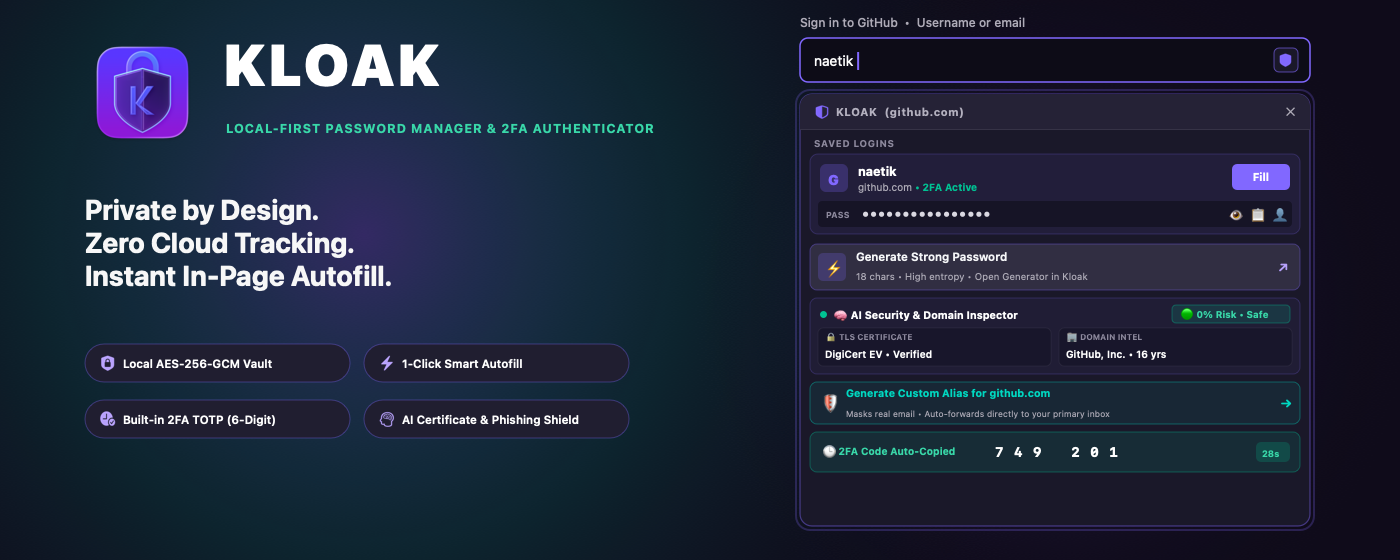
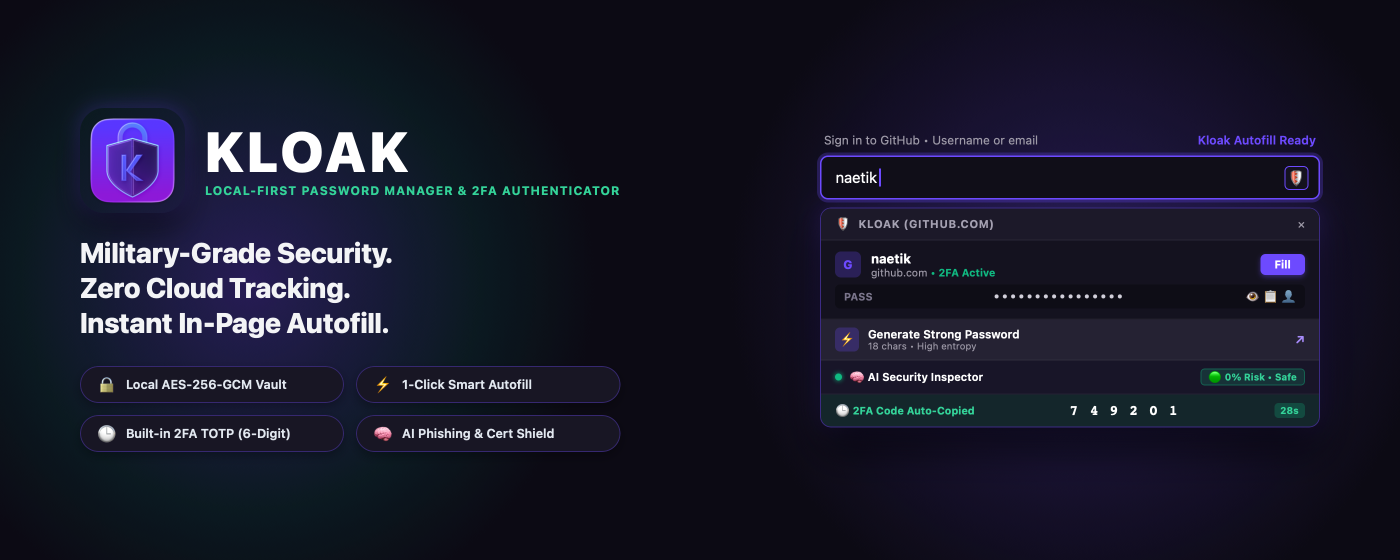
feat(store): add 5 Proton Pass inspired store screenshots and WebKit rendered marquee promo tile

diff --git a/packages/browser-extension/preview_autofill.html b/packages/browser-extension/preview_autofill.html
@@ -1,0 +1,347 @@
+<!DOCTYPE html>
+<html lang="en">
+<head>
+  <meta charset="UTF-8">
+  <title>Kloak Autofill Preview</title>
+  <style>
+    body {
+      background: #0d0c14;
+      color: #fff;
+      font-family: -apple-system, BlinkMacSystemFont, "Segoe UI", Roboto, Helvetica, Arial, sans-serif;
+      padding: 60px;
+      display: flex;
+      flex-direction: column;
+      align-items: center;
+    }
+    .page-context {
+      width: 440px;
+      margin-bottom: 8px;
+    }
+    .field-label {
+      font-size: 13px;
+      color: #9E9AA8;
+      margin-bottom: 6px;
+      display: flex;
+      justify-content: space-between;
+    }
+    .input-wrapper {
+      position: relative;
+      width: 100%;
+    }
+    .mock-input {
+      width: 100%;
+      box-sizing: border-box;
+      height: 42px;
+      background: #111017;
+      border: 1.5px solid #6D4AFF;
+      border-radius: 8px;
+      padding: 0 40px 0 14px;
+      color: #fff;
+      font-size: 14px;
+      outline: none;
+      box-shadow: 0 0 0 3px rgba(109, 74, 255, 0.25);
+    }
+    .kloak-field-badge {
+      position: absolute;
+      right: 10px;
+      top: 10px;
+      width: 22px;
+      height: 22px;
+      border-radius: 5px;
+      background: #14121F;
+      border: 1px solid rgba(109, 74, 255, 0.5);
+      display: flex;
+      align-items: center;
+      justify-content: center;
+      box-shadow: 0 2px 6px rgba(0,0,0,0.4);
+    }
+    .kloak-field-badge svg {
+      width: 13px;
+      height: 13px;
+      fill: #6D4AFF;
+    }
+
+    /* ── Content script .kloak-popup styles ── */
+    .kloak-popup {
+      width: 440px;
+      background: #14121F;
+      border: 1px solid rgba(109, 74, 255, 0.4);
+      border-radius: 10px;
+      box-shadow: 0 16px 40px rgba(0,0,0,0.65), 0 0 20px rgba(109, 74, 255, 0.18);
+      color: #FFFFFF;
+      font-size: 12px;
+      overflow: hidden;
+    }
+    .kloak-header {
+      display: flex;
+      align-items: center;
+      justify-content: space-between;
+      padding: 9px 12px;
+      background: #1C1929;
+      border-bottom: 1px solid rgba(255,255,255,0.06);
+    }
+    .kloak-brand {
+      display: flex;
+      align-items: center;
+      gap: 7px;
+      font-size: 11px;
+      font-weight: 700;
+      color: #A5A1B2;
+      text-transform: uppercase;
+      letter-spacing: 0.5px;
+    }
+    .kloak-brand svg {
+      width: 14px;
+      height: 14px;
+      fill: #6D4AFF;
+    }
+    .kloak-close-btn {
+      color: #9E9AA8;
+      font-size: 12px;
+      cursor: pointer;
+    }
+    .kloak-section-title {
+      font-size: 10px;
+      font-weight: 700;
+      color: #7A758B;
+      text-transform: uppercase;
+      letter-spacing: 0.6px;
+      padding: 10px 14px 4px 14px;
+    }
+    .kloak-card {
+      padding: 10px 14px;
+      border-bottom: 1px solid rgba(255,255,255,0.05);
+      display: flex;
+      flex-direction: column;
+      gap: 8px;
+    }
+    .kloak-card-top {
+      display: flex;
+      align-items: center;
+      gap: 10px;
+    }
+    .kloak-item-avatar {
+      width: 28px;
+      height: 28px;
+      border-radius: 6px;
+      background: rgba(109, 74, 255, 0.2);
+      display: flex;
+      align-items: center;
+      justify-content: center;
+      font-size: 13px;
+      font-weight: 700;
+      color: #6D4AFF;
+    }
+    .kloak-item-info { flex: 1; }
+    .kloak-item-username { font-size: 13px; font-weight: 600; color: #fff; }
+    .kloak-item-title { font-size: 11px; color: #9E9AA8; margin-top: 1px; }
+    .kloak-btn-fill {
+      background: #6D4AFF;
+      color: #fff;
+      border: none;
+      border-radius: 6px;
+      padding: 5px 14px;
+      font-size: 11px;
+      font-weight: 600;
+      cursor: pointer;
+      box-shadow: 0 2px 6px rgba(109, 74, 255, 0.4);
+    }
+    .kloak-pwd-row {
+      display: flex;
+      align-items: center;
+      justify-content: space-between;
+      background: rgba(0,0,0,0.3);
+      border-radius: 6px;
+      padding: 5px 10px;
+    }
+    .kloak-pwd-label { color: #7A758B; font-size: 9px; font-weight: 700; }
+    .kloak-pwd-value { font-family: monospace; color: #D1CFDA; font-size: 12px; letter-spacing: 1px; }
+    .kloak-pwd-actions { display: flex; gap: 6px; font-size: 12px; }
+
+    .kloak-gen-btn-box {
+      padding: 8px 14px;
+      border-bottom: 1px solid rgba(255,255,255,0.05);
+      background: rgba(109, 74, 255, 0.04);
+    }
+    .kloak-btn-generator {
+      width: 100%;
+      display: flex;
+      align-items: center;
+      justify-content: space-between;
+      background: #252233;
+      border: 1px solid rgba(109, 74, 255, 0.35);
+      border-radius: 7px;
+      padding: 8px 10px;
+      box-sizing: border-box;
+      color: #fff;
+    }
+    .kloak-gen-left { display: flex; align-items: center; gap: 8px; }
+    .kloak-gen-icon {
+      width: 24px;
+      height: 24px;
+      border-radius: 5px;
+      background: rgba(109, 74, 255, 0.25);
+      color: #A78BFA;
+      display: flex;
+      align-items: center;
+      justify-content: center;
+      font-size: 12px;
+    }
+    .kloak-gen-title { font-size: 12px; font-weight: 600; }
+    .kloak-gen-sub { font-size: 10px; color: #9E9AA8; }
+    .kloak-gen-arrow { font-size: 13px; color: #A78BFA; font-weight: bold; }
+
+    .kloak-ai-inspector-section {
+      background: #181528;
+      border-bottom: 1px solid rgba(255,255,255,0.06);
+      padding: 8px 14px;
+    }
+    .kloak-ai-toggle-btn {
+      display: flex;
+      align-items: center;
+      justify-content: space-between;
+      width: 100%;
+      margin-bottom: 8px;
+    }
+    .kloak-ai-left { display: flex; align-items: center; gap: 6px; font-size: 11px; font-weight: 600; }
+    .kloak-ai-dot {
+      width: 7px;
+      height: 7px;
+      border-radius: 50%;
+      background: #10B981;
+      box-shadow: 0 0 6px #10B981;
+    }
+    .kloak-ai-badge {
+      font-size: 9.5px;
+      padding: 2px 7px;
+      border-radius: 4px;
+      font-weight: 700;
+      background: rgba(16, 185, 129, 0.15);
+      color: #34D399;
+      border: 1px solid rgba(16, 185, 129, 0.3);
+    }
+    .kloak-ai-grid {
+      display: grid;
+      grid-template-columns: 1fr 1fr;
+      gap: 6px;
+    }
+    .kloak-ai-card {
+      background: #131120;
+      border: 1px solid rgba(255,255,255,0.06);
+      border-radius: 5px;
+      padding: 6px 8px;
+    }
+    .kloak-ai-card-lbl { font-size: 8.5px; font-weight: 700; color: #7A758B; text-transform: uppercase; }
+    .kloak-ai-card-val { font-size: 10.5px; font-weight: 600; color: #fff; margin-top: 2px; }
+
+    .kloak-alias-footer {
+      padding: 8px 14px;
+      background: #181624;
+    }
+    .kloak-btn-alias {
+      display: flex;
+      align-items: center;
+      justify-content: space-between;
+      background: rgba(0, 210, 180, 0.08);
+      border: 1px solid rgba(0, 210, 180, 0.3);
+      border-radius: 7px;
+      padding: 8px 10px;
+    }
+    .kloak-alias-left { display: flex; align-items: center; gap: 8px; }
+    .kloak-alias-title { font-size: 11px; font-weight: 600; color: #00D2B4; }
+    .kloak-alias-sub { font-size: 9.5px; color: #9E9AA8; }
+    .kloak-alias-arrow { font-size: 13px; font-weight: 700; color: #00D2B4; }
+  </style>
+</head>
+<body>
+  <div class="page-context">
+    <div class="field-label">
+      <span>Sign in to GitHub</span>
+      <span style="color: #6D4AFF;">Kloak Autofill Ready</span>
+    </div>
+    <div class="input-wrapper">
+      <input type="text" class="mock-input" value="naetik" autofocus>
+      <div class="kloak-field-badge">
+        <svg viewBox="0 0 24 24"><path d="M12 1L3 5v6c0 5.55 3.84 10.74 9 12 5.16-1.26 9-6.45 9-12V5l-9-4zm0 10.99h7c-.53 4.12-3.28 7.79-7 8.94V12H5V6.3l7-3.11v8.8z"/></svg>
+      </div>
+    </div>
+  </div>
+
+  <div class="kloak-popup">
+    <div class="kloak-header">
+      <div class="kloak-brand">
+        <svg viewBox="0 0 24 24"><path d="M12 1L3 5v6c0 5.55 3.84 10.74 9 12 5.16-1.26 9-6.45 9-12V5l-9-4zm0 10.99h7c-.53 4.12-3.28 7.79-7 8.94V12H5V6.3l7-3.11v8.8z"/></svg>
+        <span>Kloak (github.com)</span>
+      </div>
+      <span class="kloak-close-btn">✕</span>
+    </div>
+
+    <div class="kloak-section-title">Saved Logins</div>
+    <div class="kloak-card">
+      <div class="kloak-card-top">
+        <div class="kloak-item-avatar">G</div>
+        <div class="kloak-item-info">
+          <div class="kloak-item-username">naetik</div>
+          <div class="kloak-item-title">github.com <span style="color: #10B981; font-weight: 600;">• 2FA Active</span></div>
+        </div>
+        <button class="kloak-btn-fill">Fill</button>
+      </div>
+      <div class="kloak-pwd-row">
+        <span class="kloak-pwd-label">PASS</span>
+        <span class="kloak-pwd-value">••••••••••••••••</span>
+        <div class="kloak-pwd-actions">
+          <span>👁</span>
+          <span>📋</span>
+          <span>👤</span>
+        </div>
+      </div>
+    </div>
+
+    <div class="kloak-gen-btn-box">
+      <div class="kloak-btn-generator">
+        <div class="kloak-gen-left">
+          <div class="kloak-gen-icon">⚡</div>
+          <div>
+            <div class="kloak-gen-title">Generate Strong Password</div>
+            <div class="kloak-gen-sub">18 chars • High entropy • Open Generator in Kloak</div>
+          </div>
+        </div>
+        <span class="kloak-gen-arrow">↗</span>
+      </div>
+    </div>
+
+    <div class="kloak-ai-inspector-section">
+      <div class="kloak-ai-toggle-btn">
+        <div class="kloak-ai-left">
+          <span class="kloak-ai-dot"></span>
+          <span>🧠 AI Security &amp; Domain Inspector</span>
+        </div>
+        <span class="kloak-ai-badge">🟢 0% Risk • Safe</span>
+      </div>
+      <div class="kloak-ai-grid">
+        <div class="kloak-ai-card">
+          <div class="kloak-ai-card-lbl">🔒 TLS Certificate</div>
+          <div class="kloak-ai-card-val">DigiCert EV • Verified</div>
+        </div>
+        <div class="kloak-ai-card">
+          <div class="kloak-ai-card-lbl">🏢 Domain Intel</div>
+          <div class="kloak-ai-card-val">GitHub, Inc. • 16 yrs</div>
+        </div>
+      </div>
+    </div>
+
+    <div class="kloak-alias-footer">
+      <div class="kloak-btn-alias">
+        <div class="kloak-alias-left">
+          <span style="font-size: 16px;">🛡</span>
+          <div>
+            <div class="kloak-alias-title">Generate Custom Alias for github.com</div>
+            <div class="kloak-alias-sub">Masks real email • Auto-forwards to inbox</div>
+          </div>
+        </div>
+        <span class="kloak-alias-arrow">→</span>
+      </div>
+    </div>
+  </div>
+</body>
+</html>
